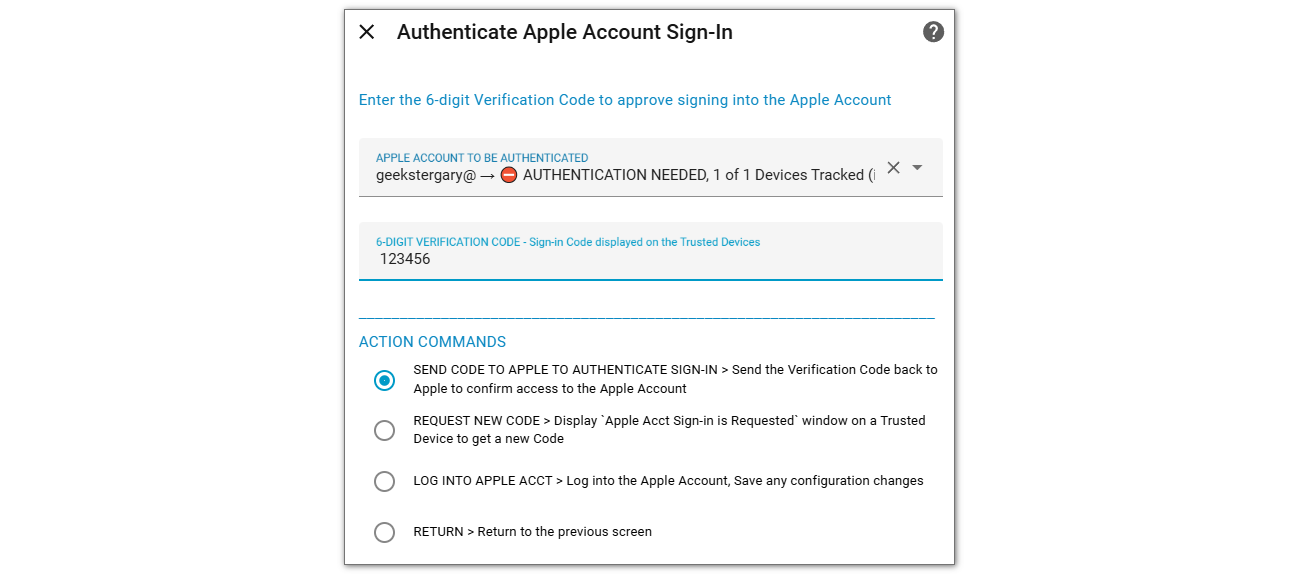
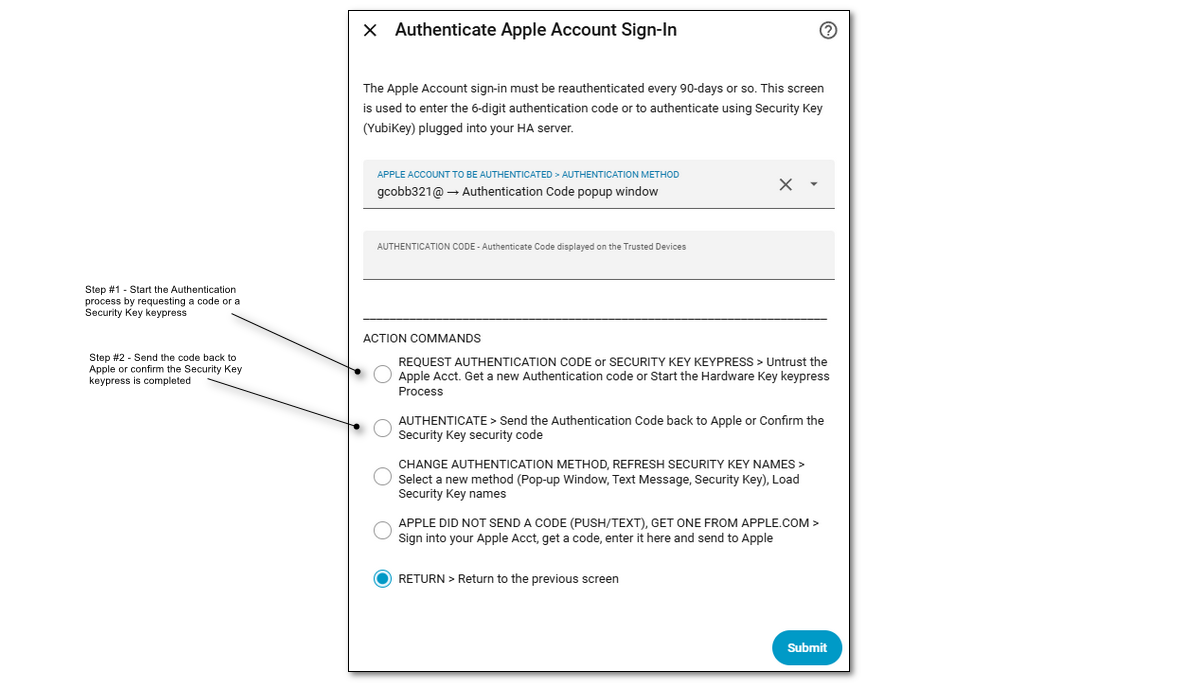
docs v3.6

diff --git a/docs/chapters/3_apple-acct-auth.md b/docs/chapters/3_apple-acct-auth.md
@@ -1,33 +1,55 @@
 # Apple Account Authentication
 
-When iCloud3 logs in the first time and about every 2-3 months after that, access to your Apple Account needs to be authenticated. Various notifications are displayed on your Apple devices:
+When iCloud3 logs in the first time and then about every 90 days, access to your Apple Account needs to be authenticated again. iCloud3 supports three authentication methods:
 
-- The *Apple Id Sign in Requested > Don't Allow/Allow* popup window id displayed on the trusted devices.
-- An *Apple Account Authentication is Required* message is displayed in the Event Log.
-- An alert is sent to your devices by iCloud3.
+- **Push notification** - The *Apple Id Sign in Requested... > 6-digit Verification Code* pop-up window 
+- **Text Messages** - Sending a text message to your Trusted Phone Numbers - These are set up on your Apple Account. On your iPhone/iPad, go to *Settings App > Your Apple Account > Sign-in & Security > Email & Phone Numbers*. 
+- **Security Keys (YubiKey**) - Touching the Security Key, when it is activated, will authenticate the access to your Apple Account.
+  - An *Apple Account Sign-on* window is displayed on your iPhone when the key is activated in the Authentication step. You do not need to respond it to complete the authentication. Select the 'OK' option to close the window.
+  - The Security Key is inserted into your HA Server, not your iPhone or iPad.
 
-> See [here⧉](https://support.apple.com/en-us/HT205064) for additional information from Apple Support about your Trusted Devices.
+> The following links will provide additional information from Apple Support:
+>
+> - See [here⧉](https://support.apple.com/en-us/122621) for information about Trusted Devices
+> - See [here⧉](https://support.apple.com/guide/mac-help/add-or-remove-trusted-devices-mchl2310b175/mac) for information about Trusted Devices on a Mac
+> - See [here⧉](https://support.apple.com/en-us/102637) for information about Security Keys
 
-When you select *Allow*, the 6-digit verification code is displayed on your Trusted Devices. This 6-digit verification code is entered on  *Authenticate Apple Account Sign-in* screen. 
+
+
+### Authenticate Apple Account Sign-in screens
+
+The screen below is used to Authenticate Apple Account access and to configure how you want to do it:
 
 ![](..\images\apple-acct-auth.png)
 
+- **Request an Authentication Code or Security Key Keypress** - *Step #1* - Start the authentication process. The screens below are displayed. It will untrust your Apple Account and then:
 
+  - **Authentication Code Popup window** - Display *Apple Account Sign in..*. popup window and the code
+  - **Text Message** - Sends the text message to the selected Trusted Device
+  - **Security Key** - Gets ready for the Authentication step
 
-- Verify the Apple account needing authentication is displayed in the selecteion list.
-- Enter the 6-digit
-- Select *Send Code to Apple to Authenticate Sign-in*, then select *Submit*
+  ![](C:\Users\Gary\GitHub\icloud3_v3_docs\docs\images\apple-acct-auth-code-hwkey.png)
 
-**Apple Rejected the Code** - The code is valid for about 15-30 minutes. An error message is displayed if Apple rejects the Verification Code. Reenter it to verify it was not entered incorrectly. It is is still rejected, request a new code.
+- **Authenticate** - *Step #2* - Completes the authentication process, what you need to do:
 
-- Select *Request New Code*, then Select Submit.
+  - **Authentication Code Popup window**, **Text Message**:
+    1. Enter the 6-digit code in the Authentication Code field. 
+    2. Submit to send to Apple for verification.
+  - **Security Key**:
+    1. Submit to activate the keypress (it should now be blinking). 
+    2. Go to the HA Server and touch the Security Key. If it is not blinking, start over with the Request... step.
 
-A new code will be displayed on your device.
+- **Change Authentication Method** - This screen is used to select the authentication method to be used. Only active methods are displayed. 
 
-1. Display the *Authenticate Apple Account Sign-in* screen. 
-2. Verify the Apple Account requesting authentication is displayed, it will show *Authentication Required*. Select it if necessary.
-3. Enter the code and select Submit. The code will be sent to Apple.
+  ![](C:\Users\Gary\GitHub\icloud3_v3_docs\docs\images\apple-acct-auth-change-method.png)
 
-The code is valid for about 15-minutes. A *Verification Code Accepted* message is displayed if it is accepted by Apple. If the code rejected, request a new code on the same screen. This will display a new *Apple Id Sign in Requested* window on the Trusted with a new code. 
+- **Apple Did not Send a Code** - There may be times when the text messages do not arrive or the push notification window is not being sent. This is a work-around, manual way of authenticating access to your account. Follow the instructions on the screen.
 
+  ![](C:\Users\Gary\GitHub\icloud3_v3_docs\docs\images\apple-acct-auth-no-code.png)
+
+#### General Notes:
+
+- **Apple Rejected the Code** - The code is valid for about 15-30 minutes. An error message is displayed if Apple rejects the Verification Code. Reenter it to verify it was not entered incorrectly. It is is still rejected, request a new code.
+
+- **Security Keys** - Security Keys are set up on your iPhone/iPad, go to *Settings App > Your Apple Account > Sign-in & Security > Two-Factor Authentication > Security Keys*. 
 

diff --git a/docs/chapters/1_installing.md b/docs/chapters/1_installing.md
@@ -23,8 +23,8 @@ iCloud3 is available on the HACS and is installed using the same process as othe
 
 - **Using HACS to install iCloud3**
   1. Open HACS.
-  2. Select **Integrations** and type **icloud3** in the search bar.
-  3. Select the **iCloud3 v3, iDevice Tracker** item, then select **+Download** to download iCloud3 and follow the normal steps for installing an integration using HACS.
+  2. Select **Integrations**, type **icloud3** in the search bar.
+  3. Select the **iCloud3, iDevice Tracker** item, then select **+Download** to download iCloud3 and follow the normal steps for installing an integration using HACS.
 
 - **Manual Installation from the iCloud3 Repository Releases Page**
   1. Download the *icloud3 v3.x.x.zip* file from the *gcobb321/icloud3 iCloud3 GitHub Repository Releases* page [here](https://github.com/gcobb321/icloud3/releases). Selects *Assets* at the bottom, then the zip file. The file save screen is displayed, select the location on your computer and save the zip file.
@@ -69,7 +69,7 @@ iCloud3 is a Home Assistant Integration and is configured on the Integrations sc
 
 1. Select **☰ > HA Settings > Devices & Services > Integrations**.
 2. Select **+ Add Integration** in the lower-right hand corner.
-3. Type **iCloud3**. Then select **iCloud3 v3** from the list of Integrations. The iCloud3 v3 entry will be added to the *Integrations* screen.
+3. Type **iCloud3**. Then select **iCloud3** from the list of Integrations. The iCloud3 entry will be added to the *Integrations* screen.
 4. Open the *iCloud3 Configure screen* as depicted below.
    - Event Log has not been set:
      - Select **☰ > HA  Settings > Devices & Services > Integrations  > iCloud3  > Configure Gear Icon**.
